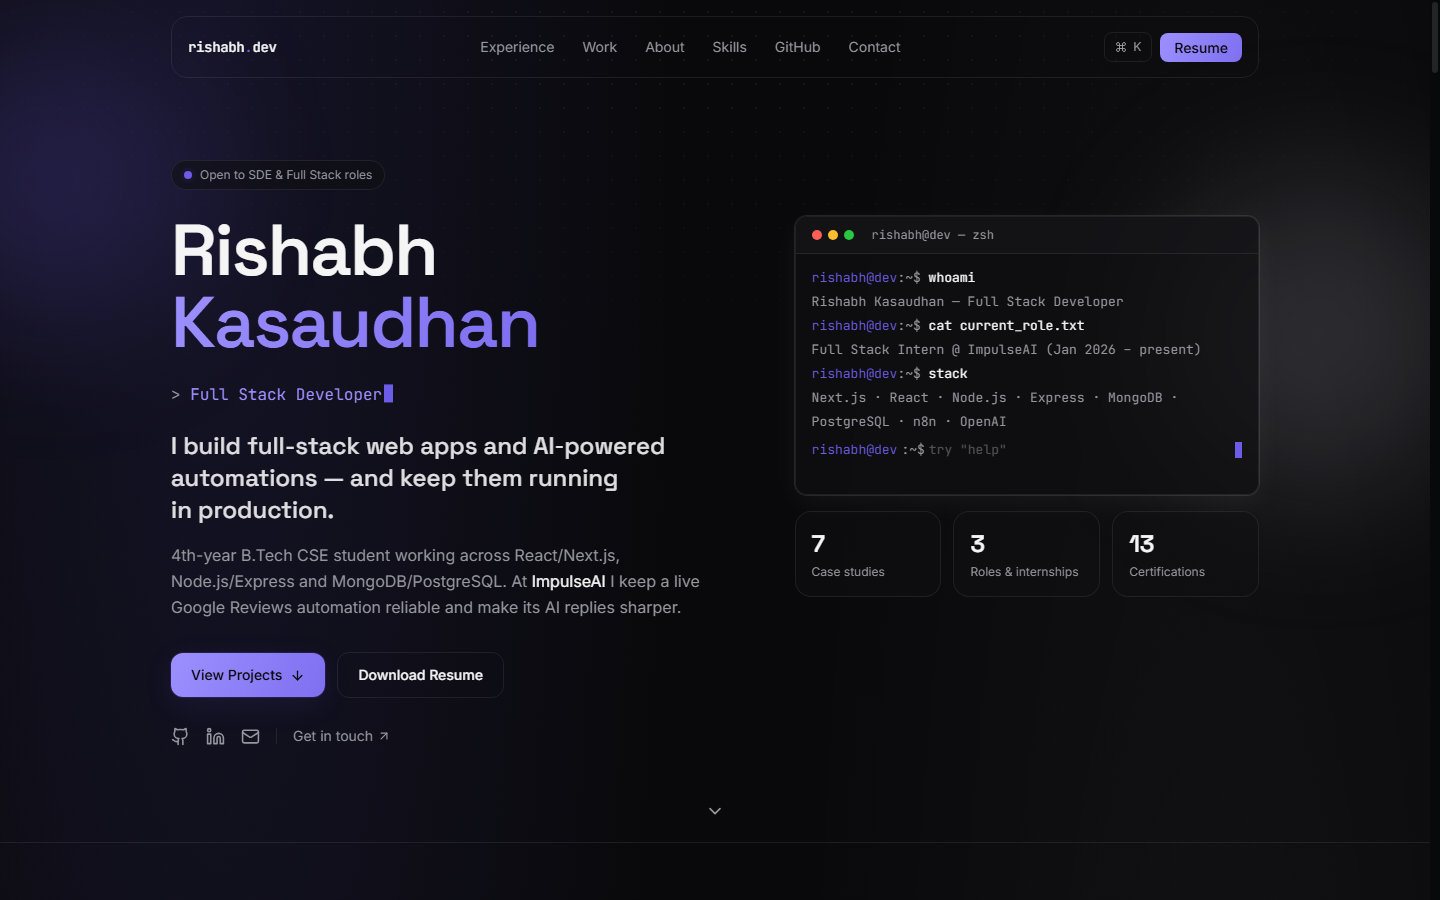
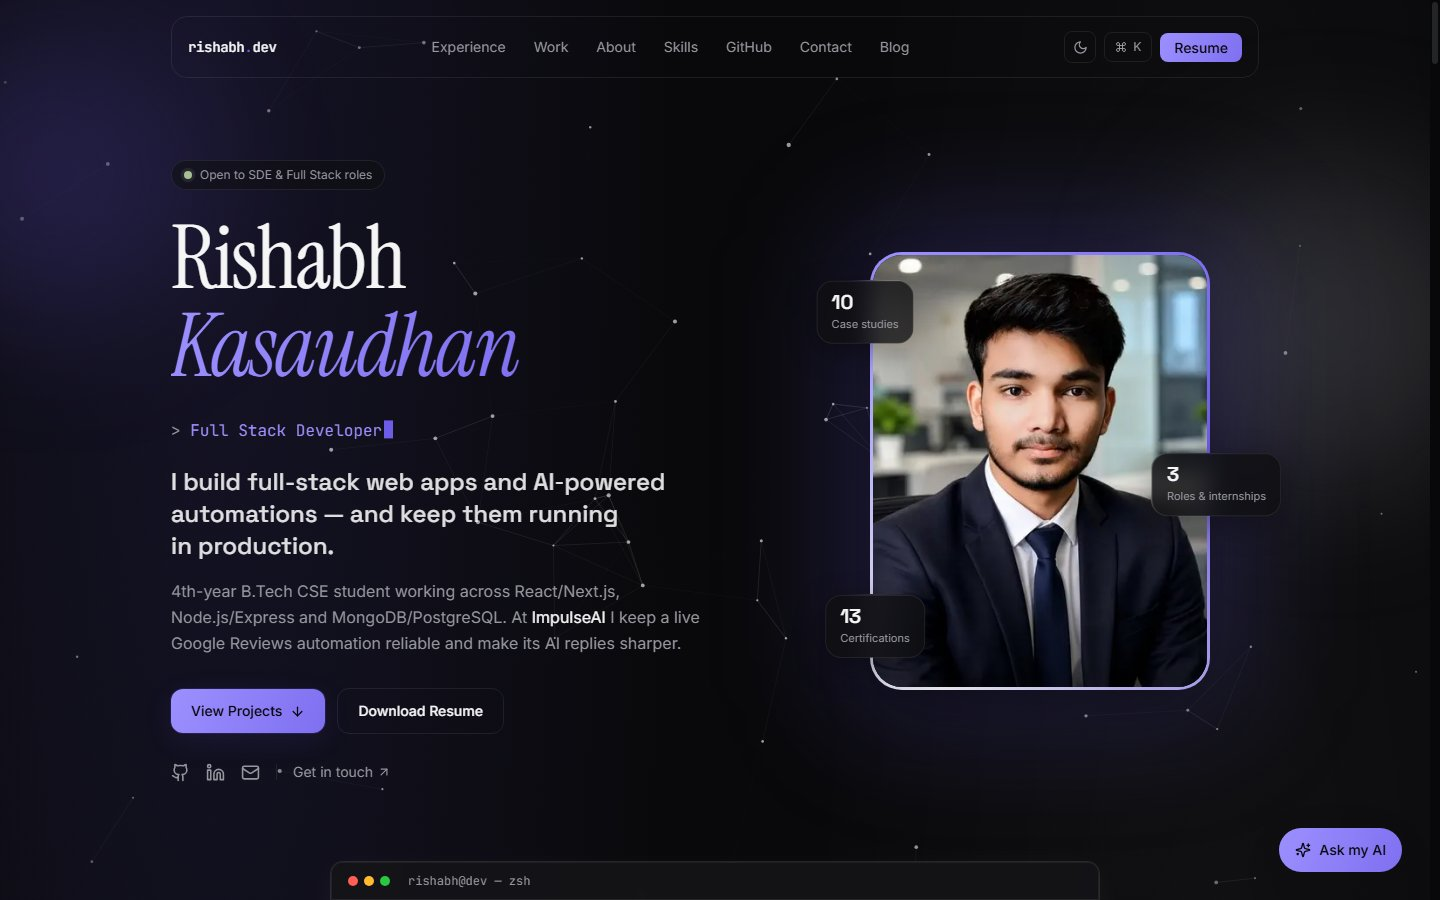
Add ReviveAI live demo and repo; list all projects in README
Feature AI Revenue Recovery with its GitHub repo, Vercel demo and a screenshot. Add a Projects table with live and code links to the README, refresh the project structure and the hero preview image.

diff --git a/data/projects.ts b/data/projects.ts
@@ -458,9 +458,10 @@ export const projects: Project[] = [
       "Finish reconciling the frontend to the newer monorepo layout (split services/utils, dedicated dashboard navbar, real product imagery)",
       "Add a docker-compose-based one-command local setup",
     ],
-    github: "#",
-    demo: "#",
-    featured: false,
+    github: "https://github.com/Rishabh893-ux/AI-Revenue-Recovery-System",
+    demo: "https://ai-revenue-recovery-system.vercel.app",
+    image: "/projects/ai-revenue-recovery.jpg",
+    featured: true,
   },
   {
     slug: "ops-agent-platform",

diff --git a/README.md b/README.md
@@ -17,7 +17,7 @@ Built with Next.js 16, React 19, TypeScript, Tailwind CSS and Framer Motion.
 
 <br />
 
-<img src="docs/preview.jpg" alt="Portfolio hero section: name, typed role, tagline, interactive terminal and stats" width="100%" />
+<img src="docs/preview.jpg" alt="Portfolio hero section: name, typed role, tagline, profile photo and stats" width="100%" />
 
 </div>
 
@@ -39,12 +39,28 @@ Built with Next.js 16, React 19, TypeScript, Tailwind CSS and Framer Motion.
 - **Accessible and motion-aware** — keyboard navigable, visible focus states, and animations respect `prefers-reduced-motion`.
 - **Responsive** — tested down to 390px phone width.
 
+## Projects
+
+Every project has a full case study on the site. Live demos run on Vercel.
+
+| Project | What it is | Stack | Links |
+| --- | --- | --- | --- |
+| **AI Navigator** | AI learning platform with a skill tree, quizzes and an agent mentor that acts inside the app | Next.js 16, Gemini (function calling) | [Live](https://ai-navigator-five-nu.vercel.app) · [Code](https://github.com/Rishabh893-ux/AI-Navigator-) |
+| **CareerOS AI** | Career-readiness platform that tells you exactly what to fix — and shows its working | Next.js 16, Express, MongoDB Atlas, Groq | [Live](https://career-os-ai-ten.vercel.app) · [Code](https://github.com/Rishabh893-ux/CareerOS-AI) |
+| **EdgePilot AI** | Edge intelligence for heavy machinery: predictive maintenance and computer-vision safety | FastAPI, YOLOv8n, MQTT, Gemini | [Live](https://edge-pilot-ai.vercel.app) · [Code](https://github.com/Rishabh893-ux/EdgePilot_AI) |
+| **Vendly** | Multi-vendor e-commerce with per-vendor payouts, inventory and analytics | Next.js, Prisma, MongoDB, Stripe Connect | [Live](https://vendly-dun.vercel.app) · [Code](https://github.com/Rishabh893-ux/Bazaario-ECommerce-Platform) |
+| **AI ATS Resume** | Resume builder and ATS score checker that tailors your resume to any job | Next.js, MongoDB, NextAuth, Gemini | [Live](https://ai-ats-resume-platfoorm.vercel.app) · [Code](https://github.com/Rishabh893-ux/AI-ATS-RESUME-PLATFOORM) |
+| **Waypoint** | Conversational learner profiling that generates an adaptive learning roadmap | Next.js 16, TypeScript, Gemini | [Live](https://waypointlearningpath.vercel.app) · [Code](https://github.com/Rishabh893-ux/WaypointLearningPath) |
+| **ReviveAI** | Detects abandoned carts and failed payments, then runs AI-drafted recovery workflows | React, Express, Supabase, n8n, Gemini, Razorpay | [Live](https://ai-revenue-recovery-system.vercel.app) · [Code](https://github.com/Rishabh893-ux/AI-Revenue-Recovery-System) |
+| **Rishabh Studio** | AI video SaaS that turns a text prompt into a Short or long-form video | React, FastAPI, 8-agent Gemini pipeline, Whisper | [Code](https://github.com/Rishabh893-ux/rishabh-studio) |
+| **Library Management API** | .NET 8 REST API with loans, late fines, a reservation queue and reports | ASP.NET Core, EF Core, SQL Server, JWT | [Code](https://github.com/Rishabh893-ux/Library-management-system) |
+
 ## Tech stack
 
 | Area | Tools |
 | --- | --- |
 | Framework | Next.js 16 (App Router, Turbopack), React 19, TypeScript |
-| Styling | Tailwind CSS 3.4, Space Grotesk + Inter + JetBrains Mono via `next/font` |
+| Styling | Tailwind CSS 3.4; Instrument Serif, Space Grotesk, Inter and JetBrains Mono via `next/font` |
 | Animation | Framer Motion 11 |
 | Blog | MDX via `next-mdx-remote`, `rehype-pretty-code` + Shiki, `rehype-slug` |
 | AI | Gemini API (streaming), through the `/api/ask` route |
@@ -97,7 +113,7 @@ All content lives in `data/`, so updating the site rarely means touching compone
 | `data/skills.ts` | Skill categories and which projects/roles use each skill |
 | `data/certifications.ts` | Certifications (add `link` for a verify button) |
 | `public/resume.pdf` | The file behind every "Resume" button |
-| `public/projects/` | Project screenshots referenced by `image` in `projects.ts` |
+| `public/projects/` | Project screenshots (`image`) and hover-preview videos (`previews/`, `video`) referenced in `projects.ts` |
 | `content/blog/*.mdx` | Blog posts. Front matter: `title`, `description`, `date` (YYYY-MM-DD) and `tags`. `## ` headings become the table of contents. |
 
 A GitHub or demo link set to `"#"` is hidden automatically, so unfinished links never show as broken buttons.
@@ -106,16 +122,19 @@ A GitHub or demo link set to `"#"` is hidden automatically, so unfinished links 
 
 ```
 app/
-  layout.tsx              Root layout: fonts, metadata, analytics
+  layout.tsx              Root layout: fonts, theme script, metadata, analytics
   page.tsx                Home page — composes the sections
   project/[slug]/         Statically generated case-study pages
+  blog/, blog/[slug]/     Blog index and MDX post pages
+  api/ask/route.ts        "Ask my AI" endpoint (streams Gemini replies)
   opengraph-image.tsx     Generated social preview image
   sitemap.ts, robots.ts   SEO routes
-  globals.css             Base styles and utility classes
+  globals.css             Theme variables (dark + beige), base styles, utilities
 components/               Sections (Hero, Experience, ProjectGrid, Skills…) and shared UI
+content/blog/             Blog posts (.mdx)
 data/                     All site content (see above)
-lib/                      Helpers: site URL, chart colors, utilities
-public/                   Resume, favicon, project screenshots
+lib/                      Helpers: AI context, blog loader, theme, site URL, tech icons
+public/                   Resume, favicon, project screenshots and hover previews
 docs/                     README assets
 ```
 
